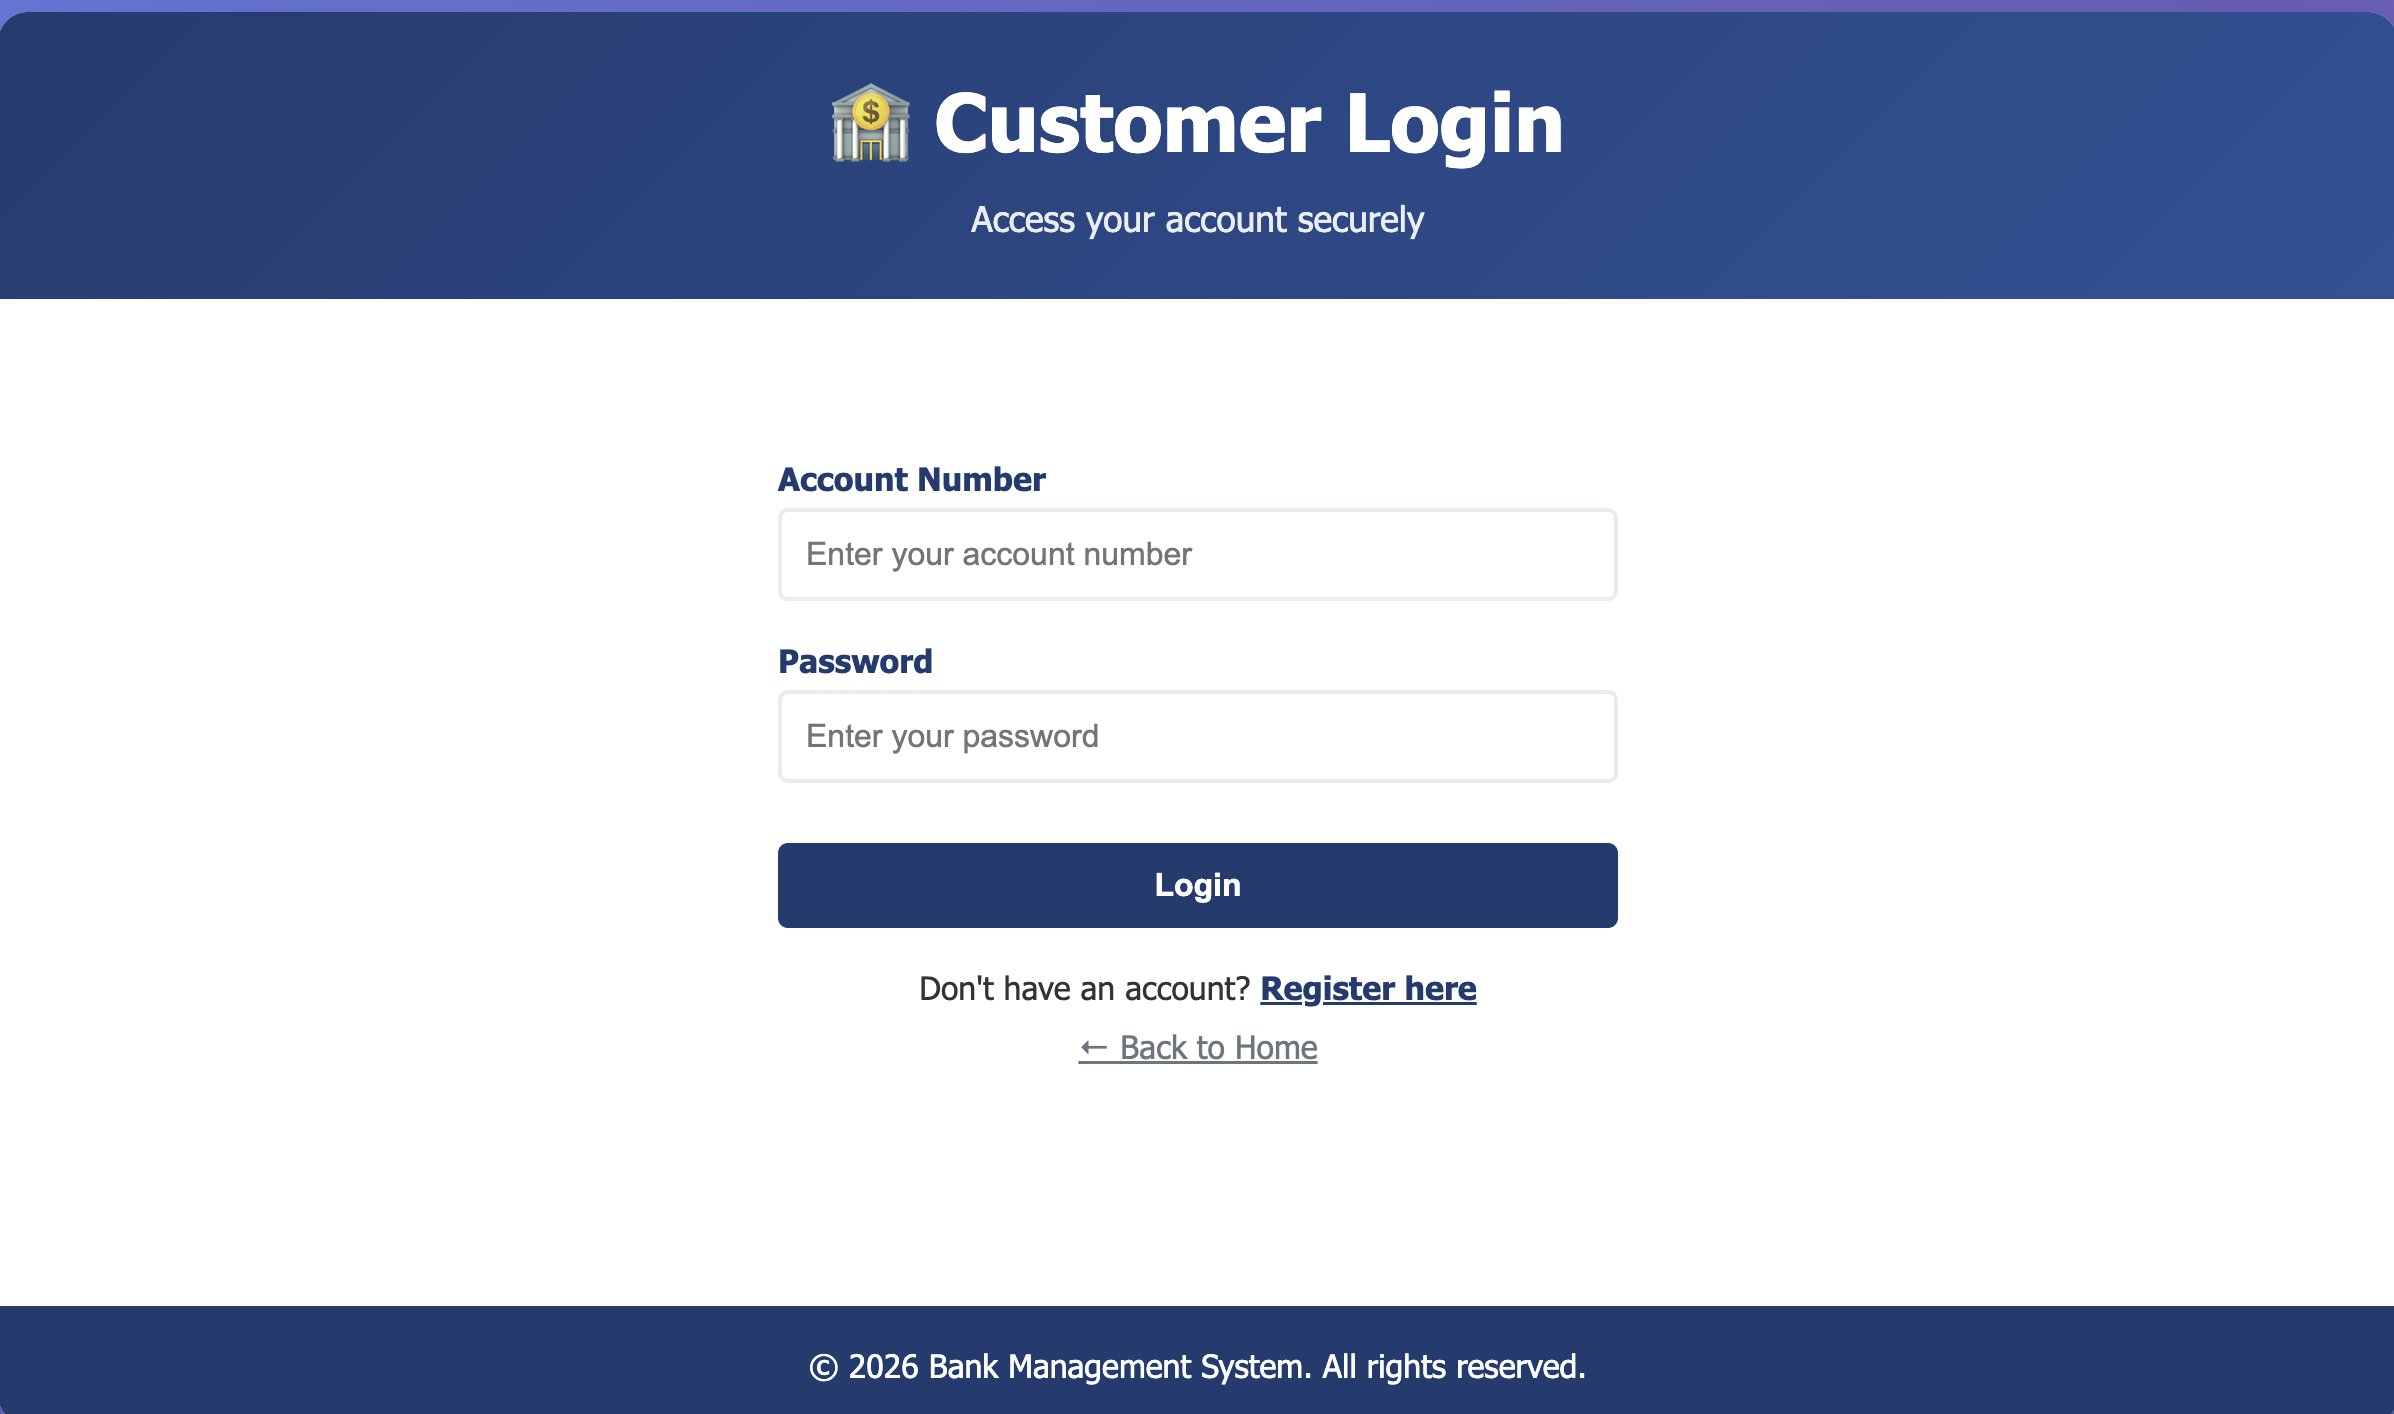
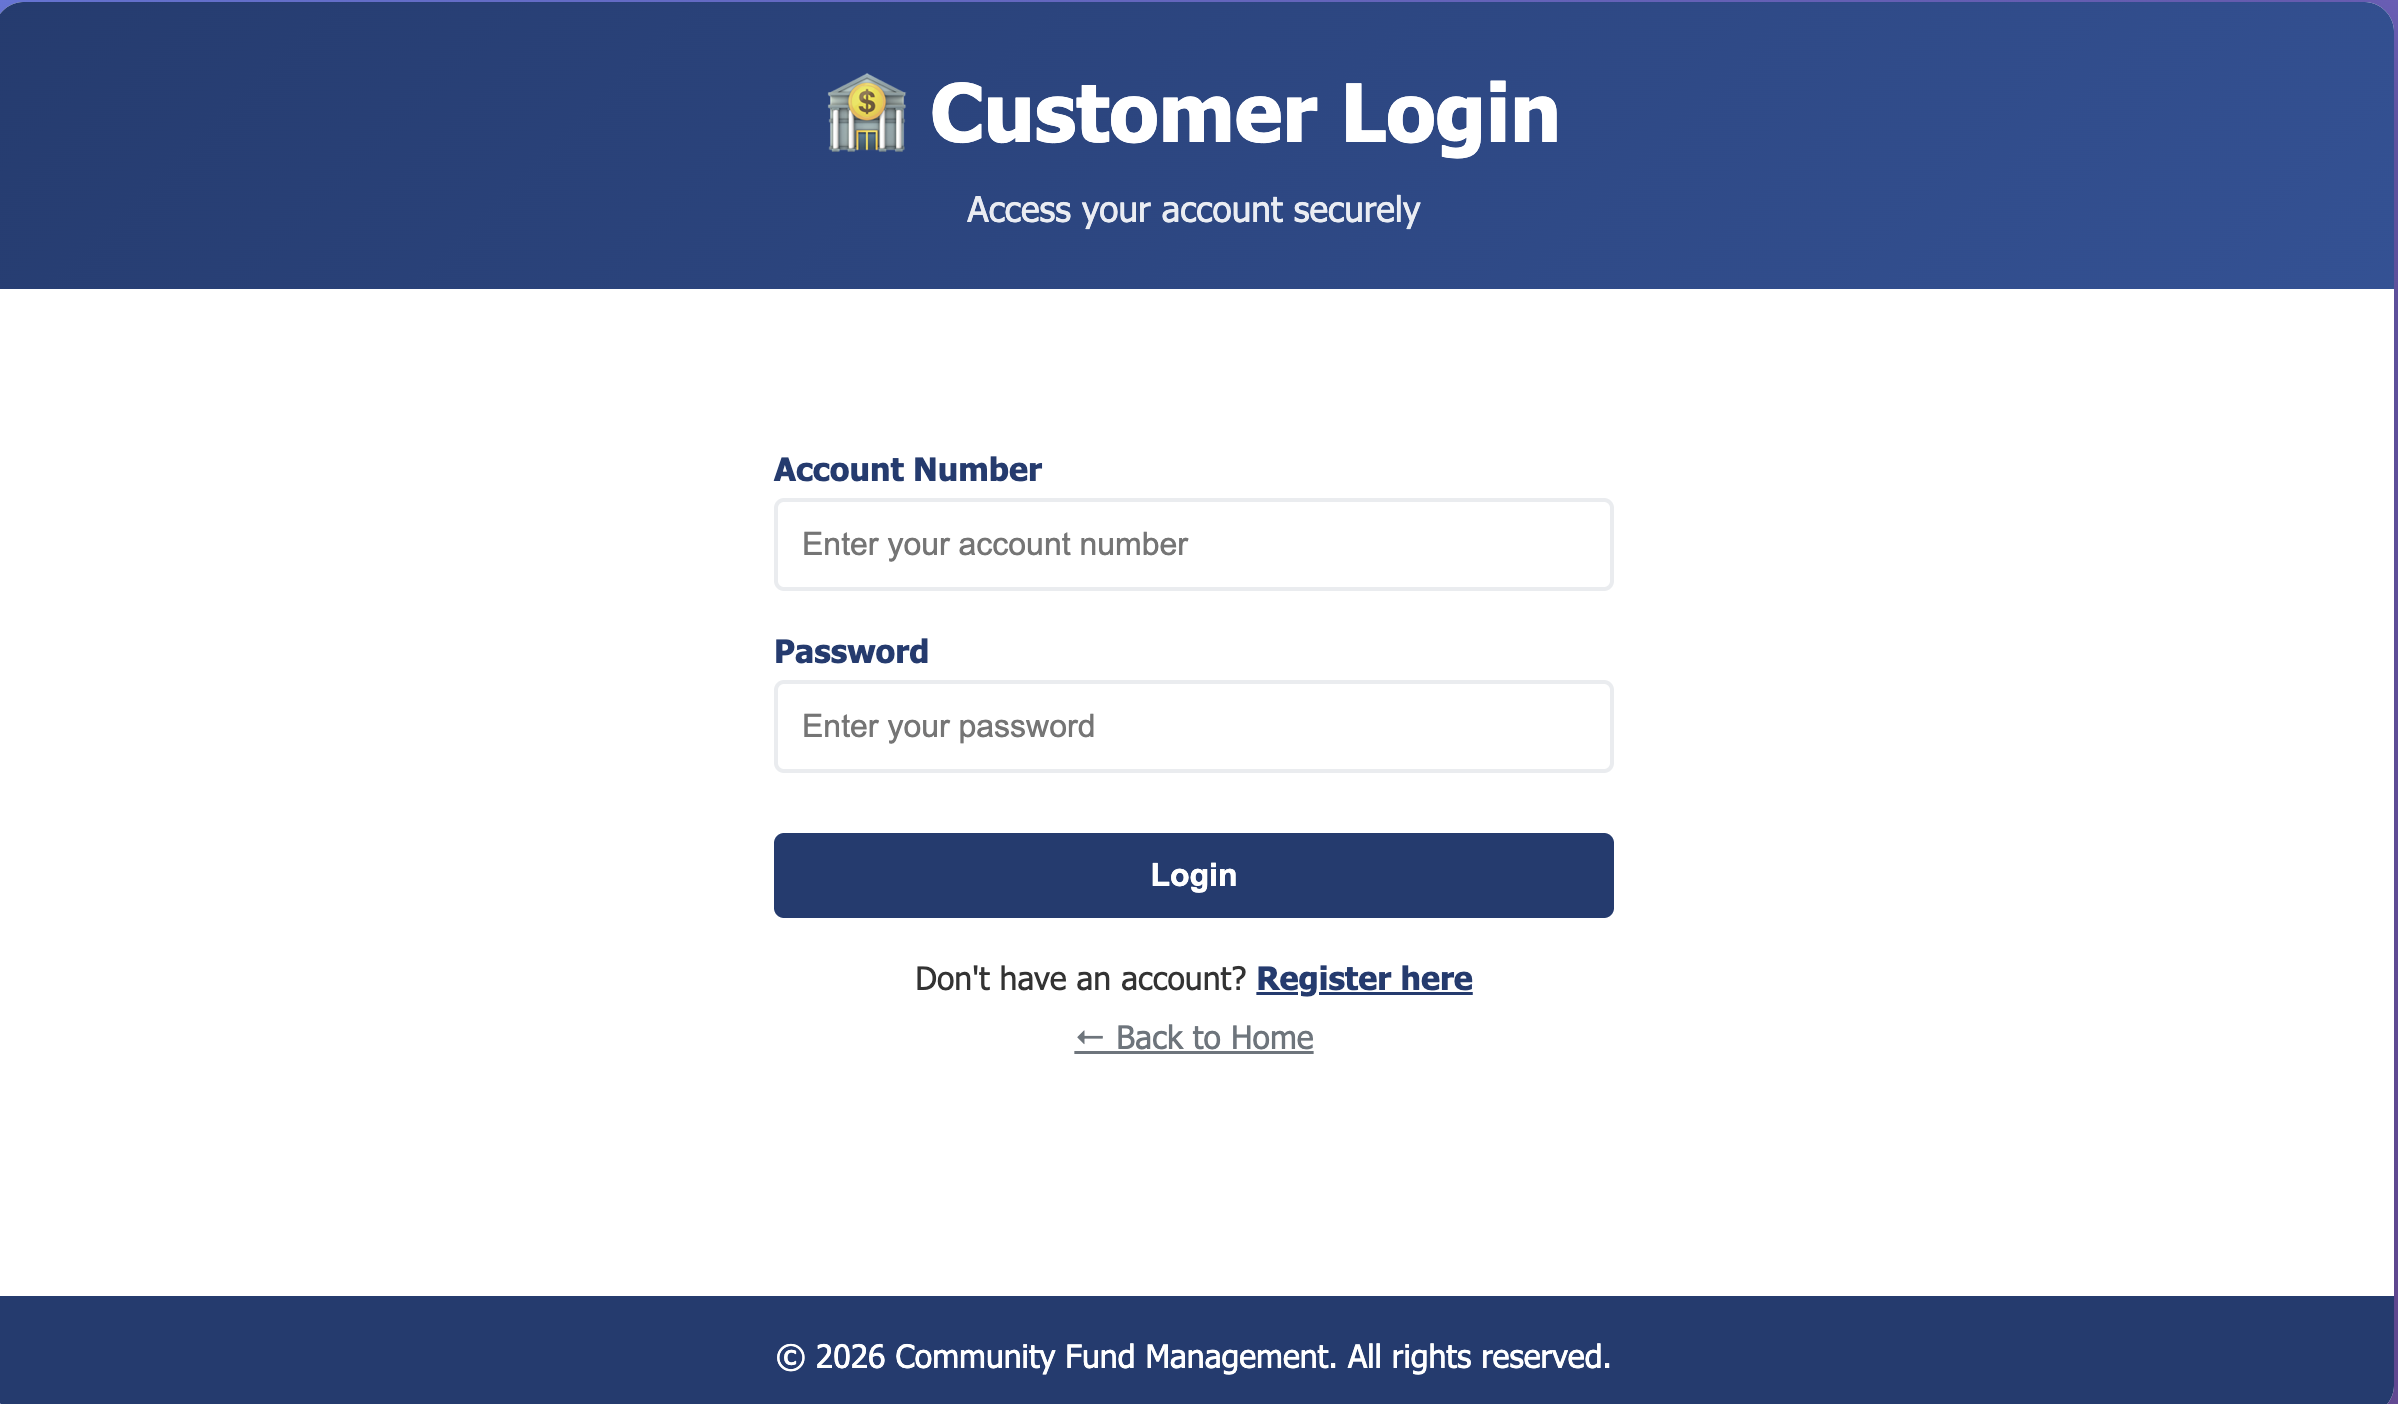
Topic changed to Community Fund Management

diff --git a/index.html b/index.html
@@ -3,19 +3,19 @@
 <head>
     <meta charset="UTF-8">
     <meta name="viewport" content="width=device-width, initial-scale=1.0">
-    <title>Bank Management System - Home</title>
+    <title>Community Fund Management System</title>
     <link rel="stylesheet" href="css/style.css">
 </head>
 <body>
     <div class="container">
         <header class="header">
-            <h1>🏦 Bank Management System</h1>
+            <h1>🏦 Community Fund Management</h1>
             <p class="tagline">Secure, Fast, and Reliable Banking</p>
         </header>
 
         <main class="main-content">
             <div class="welcome-section">
-                <h2>Welcome to Our Banking Portal</h2>
+                <h2>Welcome to Our Fund Portal</h2>
                 <p>Manage your finances with ease and security</p>
             </div>
 
@@ -30,14 +30,14 @@
                 <div class="card">
                     <div class="card-icon">🔐</div>
                     <h3>Admin Login</h3>
-                    <p>Administrative access for bank staff</p>
+                    <p>Administrative access for fund staff</p>
                     <a href="admin_login.php" class="btn btn-secondary">Admin Login</a>
                 </div>
 
                 <div class="card">
                     <div class="card-icon">✏</div>
                     <h3>Open New Account</h3>
-                    <p>Join us today and start banking</p>
+                    <p>Join us today and start funding</p>
                     <a href="register.php" class="btn btn-success">Register Now</a>
                 </div>
             </div>
@@ -63,14 +63,14 @@
                     <div class="feature-item">
                         <span class="feature-icon">💼</span>
                         <h4>Reliable</h4>
-                        <p>Trusted banking services</p>
+                        <p>Trusted funding services</p>
                     </div>
                 </div>
             </div>
         </main>
 
         <footer class="footer">
-            <p>&copy; 2026 Bank Management System. All rights reserved.</p>
+            <p>&copy; 2026 Community Fund Management. All rights reserved.</p>
         </footer>
     </div>
 </body>

diff --git a/register.php b/register.php
@@ -94,14 +94,14 @@ if ($_SERVER['REQUEST_METHOD'] == 'POST') {
 <head>
     <meta charset="UTF-8">
     <meta name="viewport" content="width=device-width, initial-scale=1.0">
-    <title>Register - Bank Management System</title>
+    <title>Register - Community Fund Management</title>
     <link rel="stylesheet" href="css/style.css">
 </head>
 <body>
     <div class="container">
         <header class="header">
             <h1>🏦 Open New Account</h1>
-            <p class="tagline">Join us and start banking today</p>
+            <p class="tagline">Join us and start funding today</p>
         </header>
 
         <main class="main-content">
@@ -117,14 +117,14 @@ if ($_SERVER['REQUEST_METHOD'] == 'POST') {
                         <a href="login.php" class="btn btn-primary">Go to Login</a>
                     </div>
                 <?php else: ?>
-                    <div class="alert alert-info">
+                    <!-- <div class="alert alert-info">
                         <strong>📋 Registration Requirements:</strong>
                         <ul style="margin: 10px 0 0 20px; text-align: left;">
                             <li>Password: At least 6 characters (letters and/or numbers only)</li>
                             <li>Contact: Exactly 10 digits (numbers only)</li>
                             <li>Account will be activated after admin approval</li>
                         </ul>
-                    </div>
+                    </div> -->
 
                     <form method="POST" action="" id="registerForm">
                         <div class="form-group">
@@ -175,7 +175,7 @@ if ($_SERVER['REQUEST_METHOD'] == 'POST') {
         </main>
 
         <footer class="footer">
-            <p>&copy; 2026 Bank Management System. All rights reserved.</p>
+            <p>&copy; 2026 Community Fund Management. All rights reserved.</p>
         </footer>
     </div>
 

diff --git a/login.php b/login.php
@@ -57,7 +57,7 @@ if ($_SERVER['REQUEST_METHOD'] == 'POST') {
 <head>
     <meta charset="UTF-8">
     <meta name="viewport" content="width=device-width, initial-scale=1.0">
-    <title>Customer Login - Bank Management System</title>
+    <title>Customer Login - Community Fund Management</title>
     <link rel="stylesheet" href="css/style.css">
 </head>
 <body>
@@ -95,7 +95,7 @@ if ($_SERVER['REQUEST_METHOD'] == 'POST') {
         </main>
 
         <footer class="footer">
-            <p>&copy; 2026 Bank Management System. All rights reserved.</p>
+            <p>&copy; 2026 Community Fund Management. All rights reserved.</p>
         </footer>
     </div>
 </body>

diff --git a/admin_login.php b/admin_login.php
@@ -52,7 +52,7 @@ if ($_SERVER['REQUEST_METHOD'] == 'POST') {
 <head>
     <meta charset="UTF-8">
     <meta name="viewport" content="width=device-width, initial-scale=1.0">
-    <title>Admin Login - Bank Management System</title>
+    <title>Admin Login - Community Fund Management</title>
     <link rel="stylesheet" href="css/style.css">
 </head>
 <body>
@@ -95,7 +95,7 @@ if ($_SERVER['REQUEST_METHOD'] == 'POST') {
         </main>
 
         <footer class="footer">
-            <p>&copy; 2026 Bank Management System. All rights reserved.</p>
+            <p>&copy; 2026 Community Fund Management. All rights reserved.</p>
         </footer>
     </div>
 </body>

diff --git a/admin_close_account.php b/admin_close_account.php
@@ -45,7 +45,7 @@ if ($_SERVER['REQUEST_METHOD'] == 'POST') {
 <head>
     <meta charset="UTF-8">
     <meta name="viewport" content="width=device-width, initial-scale=1.0">
-    <title>Close Account - Bank Management System</title>
+    <title>Close Account - Community Fund Management</title>
     <link rel="stylesheet" href="css/style.css">
 </head>
 <body>
@@ -90,7 +90,7 @@ if ($_SERVER['REQUEST_METHOD'] == 'POST') {
         </main>
 
         <footer class="footer">
-            <p>&copy; 2026 Bank Management System. All rights reserved.</p>
+            <p>&copy; 2026 Community Fund Management. All rights reserved.</p>
         </footer>
     </div>
 

diff --git a/transaction_history.php b/transaction_history.php
@@ -34,7 +34,7 @@ $conn->close();
 <head>
     <meta charset="UTF-8">
     <meta name="viewport" content="width=device-width, initial-scale=1.0">
-    <title>Transaction History - Bank Management System</title>
+    <title>Transaction History - Community Fund Management</title>
     <link rel="stylesheet" href="css/style.css">
 </head>
 <body>
@@ -93,7 +93,7 @@ $conn->close();
         </main>
 
         <footer class="footer">
-            <p>&copy; 2026 Bank Management System. All rights reserved.</p>
+            <p>&copy; 2026 Community Fund Management. All rights reserved.</p>
         </footer>
     </div>
 </body>

diff --git a/admin_dashboard.php b/admin_dashboard.php
@@ -28,7 +28,7 @@ $conn->close();
 <head>
     <meta charset="UTF-8">
     <meta name="viewport" content="width=device-width, initial-scale=1.0">
-    <title>Admin Dashboard - Bank Management System</title>
+    <title>Admin Dashboard - Community Fund Management</title>
     <link rel="stylesheet" href="css/style.css">
 </head>
 <body>
@@ -105,7 +105,7 @@ $conn->close();
         </main>
 
         <footer class="footer">
-            <p>&copy; 2026 Bank Management System. All rights reserved.</p>
+            <p>&copy; 2026 Community Fund Management. All rights reserved.</p>
         </footer>
     </div>
 </body>

diff --git a/admin_view_transactions.php b/admin_view_transactions.php
@@ -30,7 +30,7 @@ $conn->close();
 <head>
     <meta charset="UTF-8">
     <meta name="viewport" content="width=device-width, initial-scale=1.0">
-    <title>All Transactions - Bank Management System</title>
+    <title>All Transactions - Community Fund Management</title>
     <link rel="stylesheet" href="css/style.css">
 </head>
 <body>
@@ -92,7 +92,7 @@ $conn->close();
         </main>
 
         <footer class="footer">
-            <p>&copy; 2026 Bank Management System. All rights reserved.</p>
+            <p>&copy; 2026 Community Fund Management. All rights reserved.</p>
         </footer>
     </div>
 </body>

diff --git a/balance_enquiry.php b/balance_enquiry.php
@@ -25,7 +25,7 @@ $conn->close();
 <head>
     <meta charset="UTF-8">
     <meta name="viewport" content="width=device-width, initial-scale=1.0">
-    <title>Balance Enquiry - Bank Management System</title>
+    <title>Balance Enquiry - Community Fund Management</title>
     <link rel="stylesheet" href="css/style.css">
 </head>
 <body>
@@ -62,7 +62,7 @@ $conn->close();
         </main>
 
         <footer class="footer">
-            <p>&copy; 2026 Bank Management System. All rights reserved.</p>
+            <p>&copy; 2026 Community Fund Management. All rights reserved.</p>
         </footer>
     </div>
 </body>

diff --git a/user_dashboard.php b/user_dashboard.php
@@ -21,7 +21,7 @@ $conn->close();
 <head>
     <meta charset="UTF-8">
     <meta name="viewport" content="width=device-width, initial-scale=1.0">
-    <title>User Dashboard - Bank Management System</title>
+    <title>User Dashboard - Community Fund Management</title>
     <link rel="stylesheet" href="css/style.css">
 </head>
 <body>
@@ -76,7 +76,7 @@ $conn->close();
         </main>
 
         <footer class="footer">
-            <p>&copy; 2026 Bank Management System. All rights reserved.</p>
+            <p>&copy; 2026 Community Fund Management. All rights reserved.</p>
         </footer>
     </div>
 </body>

diff --git a/admin_view_users.php b/admin_view_users.php
@@ -59,7 +59,7 @@ $conn->close();
 <head>
     <meta charset="UTF-8">
     <meta name="viewport" content="width=device-width, initial-scale=1.0">
-    <title>All Users - Bank Management System</title>
+    <title>All Users - Community Fund Management</title>
     <link rel="stylesheet" href="css/style.css">
 </head>
 <body>
@@ -139,7 +139,7 @@ $conn->close();
         </main>
 
         <footer class="footer">
-            <p>&copy; 2026 Bank Management System. All rights reserved.</p>
+            <p>&copy; 2026 Community Fund Management. All rights reserved.</p>
         </footer>
     </div>
 </body>

diff --git a/send_money.php b/send_money.php
@@ -88,7 +88,7 @@ $conn->close();
 <head>
     <meta charset="UTF-8">
     <meta name="viewport" content="width=device-width, initial-scale=1.0">
-    <title>Send Money - Bank Management System</title>
+    <title>Send Money - Community Fund Management</title>
     <link rel="stylesheet" href="css/style.css">
 </head>
 <body>
@@ -138,7 +138,7 @@ $conn->close();
         </main>
 
         <footer class="footer">
-            <p>&copy; 2026 Bank Management System. All rights reserved.</p>
+            <p>&copy; 2026 Community Fund Management. All rights reserved.</p>
         </footer>
     </div>
 
